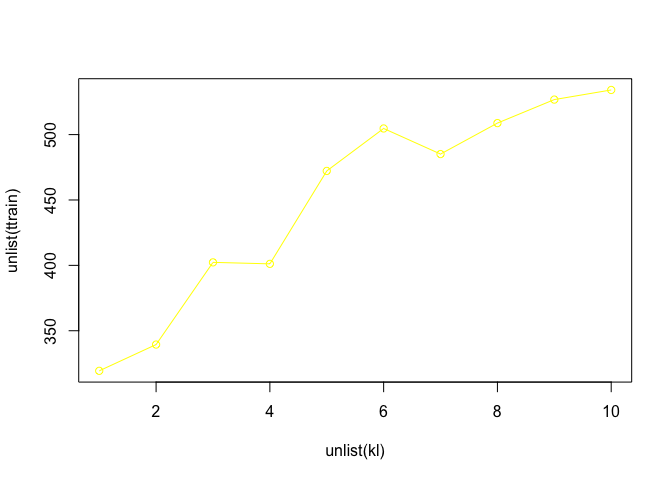
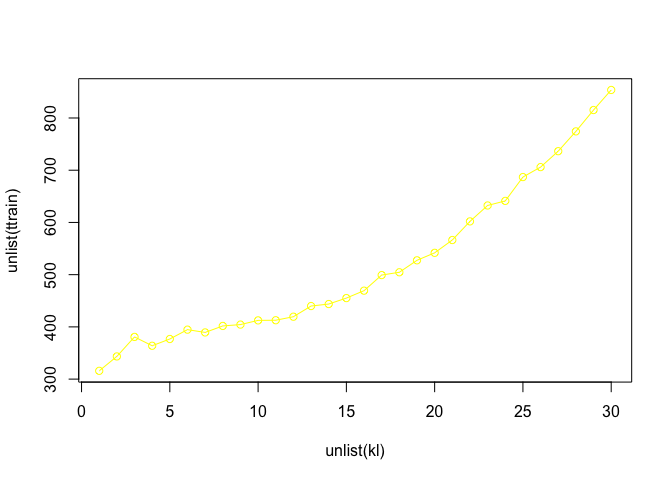
fixed error

diff --git a/HW5/HW5-ZhanZ.md b/HW5/HW5-ZhanZ.md
@@ -1,7 +1,7 @@
 HW5-ZhanZ
 ================
 Zhan, Zhuoyi
-Tue Mar 15 21:54:25 2022
+Wed Mar 16 17:22:28 2022
 
 ``` r
 library('MASS') ## for 'mcycle'
@@ -249,7 +249,7 @@ plot
 
     ## function (x, y, ...) 
     ## UseMethod("plot")
-    ## <bytecode: 0x7fd67f83f7b8>
+    ## <bytecode: 0x7fb238dc41d0>
     ## <environment: namespace:base>
 
 ``` r
@@ -266,7 +266,7 @@ ttrain=list()
 ttest = list()
 kl = list()
 ## how does k affect shape of predictor and eff. df using k-nn kernel ?
-for (k in 1:10) {
+for (k in 1:30) {
    ## make predictions using NW method at training inputs
   print(k)
    y_hat <- nadaraya_watson(y_train, x_train, x_train,
@@ -297,6 +297,26 @@ for (k in 1:10) {
     ## [1] 8
     ## [1] 9
     ## [1] 10
+    ## [1] 11
+    ## [1] 12
+    ## [1] 13
+    ## [1] 14
+    ## [1] 15
+    ## [1] 16
+    ## [1] 17
+    ## [1] 18
+    ## [1] 19
+    ## [1] 20
+    ## [1] 21
+    ## [1] 22
+    ## [1] 23
+    ## [1] 24
+    ## [1] 25
+    ## [1] 26
+    ## [1] 27
+    ## [1] 28
+    ## [1] 29
+    ## [1] 30
 
 ``` r
 plot(unlist(kl),unlist(taic),type='o',xlab="k",ylab="Error rate",col="blue")
@@ -323,6 +343,7 @@ plot(unlist(kl),unlist(ttest),type='o',col="green")
 ![](HW5-ZhanZ_files/figure-gfm/unnamed-chunk-6-4.png)<!-- -->
 
 ``` r
+set.seed(42)
 #clean.data <- mcycle[complete.cases(mcycle),]
 resample_rows <-  sample(nrow(mcycle))
 resample_dat <- mcycle[resample_rows, ]
